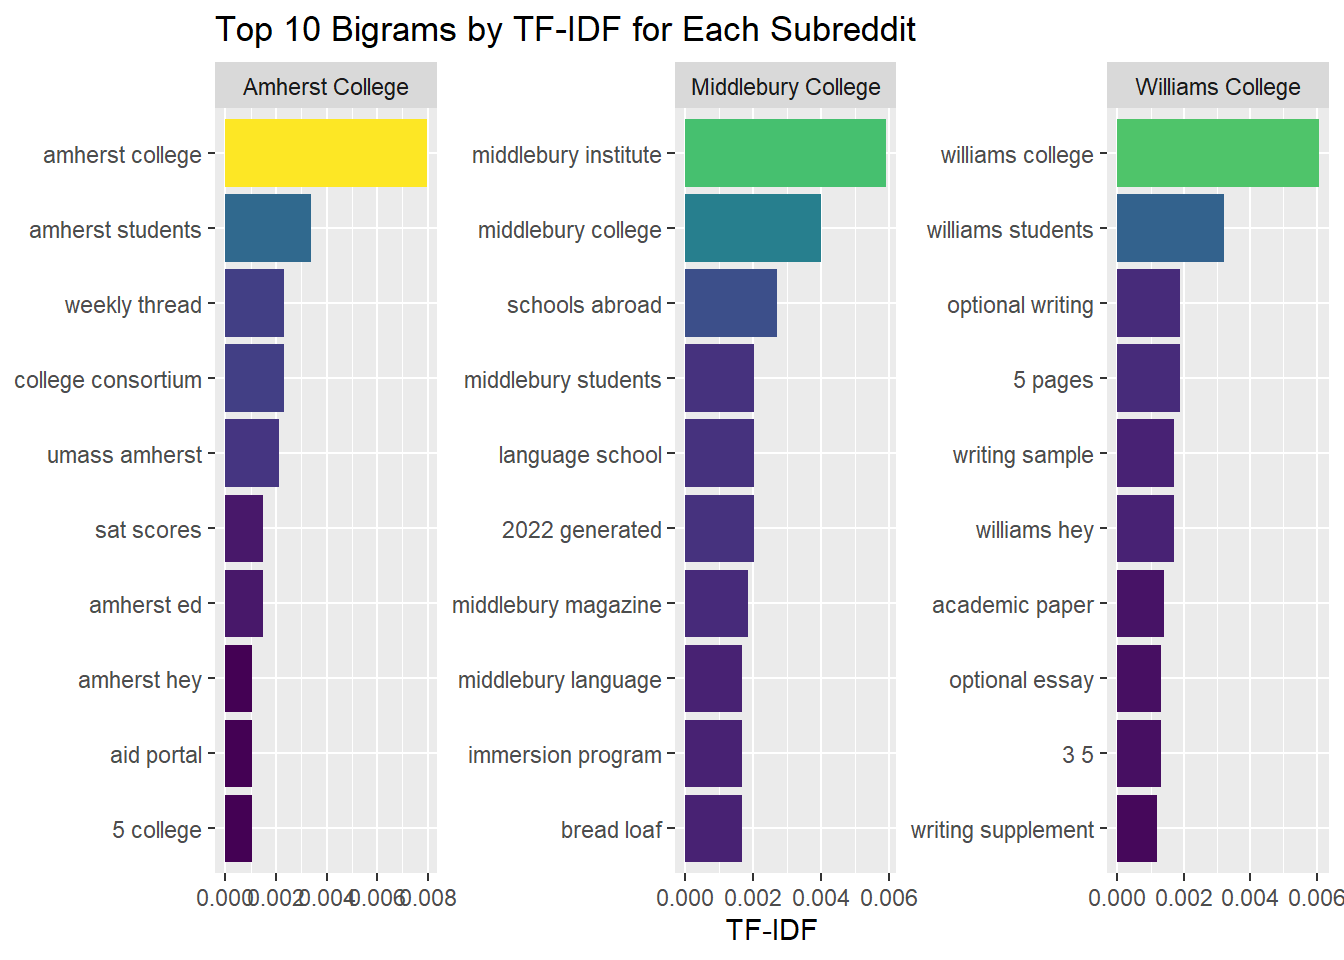
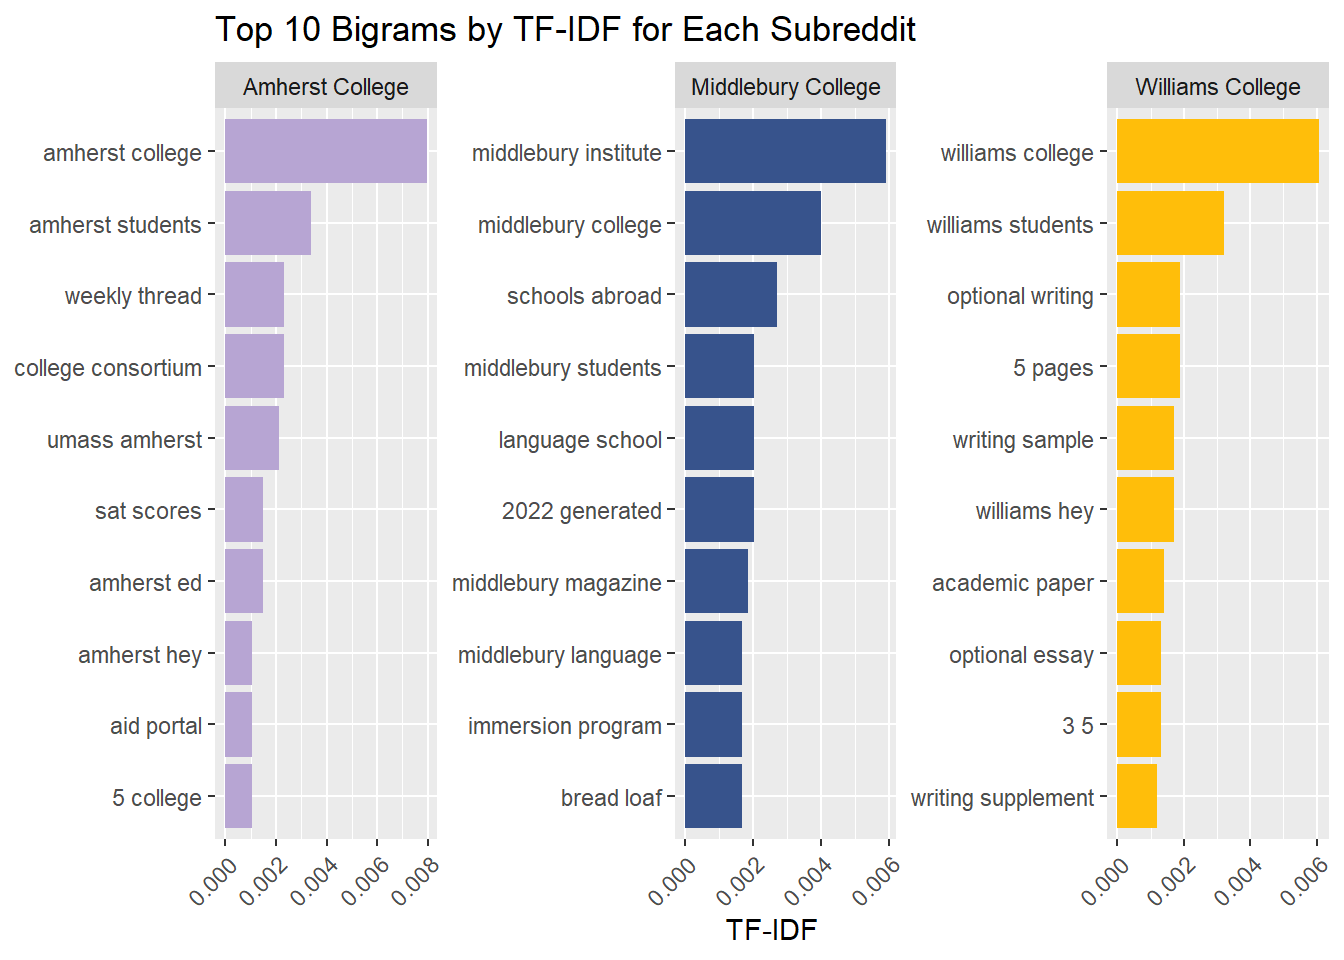
change colors and rotated axes on tf idf

diff --git a/docs/tf-idf.html b/docs/tf-idf.html
@@ -9,7 +9,7 @@
 <meta name="author" content="Fynn Hayton-Ruffner">
 <meta name="author" content="Shekinah Ninziza">
 <meta name="author" content="Kinglee Tham">
-<meta name="dcterms.date" content="2025-05-01">
+<meta name="dcterms.date" content="2025-05-04">
 
 <title>Term Frequency - Inverse Document Frequency Analysis – Bobcat</title>
 <style>
@@ -165,7 +165,7 @@ ul.task-list li input[type="checkbox"] {
     <div>
     <div class="quarto-title-meta-heading">Last updated</div>
     <div class="quarto-title-meta-contents">
-      <p class="date">May 1, 2025</p>
+      <p class="date">May 4, 2025</p>
     </div>
   </div>
   
@@ -182,13 +182,13 @@ ul.task-list li input[type="checkbox"] {
 <h1>Word Analysis</h1>
 <div class="cell">
 <div class="cell-output-display">
-<div id="fig-word_tfidf" class="quarto-float quarto-figure quarto-figure-center anchored" width="672">
+<div id="fig-word_tfidf" class="quarto-float quarto-figure quarto-figure-center anchored">
 <figure class="quarto-float quarto-float-fig figure">
 <div aria-describedby="fig-word_tfidf-caption-0ceaefa1-69ba-4598-a22c-09a6ac19f8ca">
-<img src="tf-idf_files/figure-html/fig-word_tfidf-1.png" id="fig-word_tfidf" class="img-fluid figure-img" width="672">
+<img src="tf-idf_files/figure-html/fig-word_tfidf-1.png" class="img-fluid figure-img" width="672">
 </div>
-<figcaption class="quarto-float-caption-bottom quarto-float-caption quarto-float-fig quarto-uncaptioned" id="fig-word_tfidf-caption-0ceaefa1-69ba-4598-a22c-09a6ac19f8ca">
-Figure&nbsp;1
+<figcaption class="quarto-float-caption-bottom quarto-float-caption quarto-float-fig" id="fig-word_tfidf-caption-0ceaefa1-69ba-4598-a22c-09a6ac19f8ca">
+Figure&nbsp;1: Pay careful attention to the scales!
 </figcaption>
 </figure>
 </div>
@@ -211,13 +211,13 @@ Figure&nbsp;1
 <h1>Bigram Analysis</h1>
 <div class="cell">
 <div class="cell-output-display">
-<div id="fig-bigram_tfidf" class="quarto-float quarto-figure quarto-figure-center anchored" width="672">
+<div id="fig-bigram_tfidf" class="quarto-float quarto-figure quarto-figure-center anchored">
 <figure class="quarto-float quarto-float-fig figure">
 <div aria-describedby="fig-bigram_tfidf-caption-0ceaefa1-69ba-4598-a22c-09a6ac19f8ca">
-<img src="tf-idf_files/figure-html/fig-bigram_tfidf-1.png" id="fig-bigram_tfidf" class="img-fluid figure-img" width="672">
+<img src="tf-idf_files/figure-html/fig-bigram_tfidf-1.png" class="img-fluid figure-img" width="672">
 </div>
-<figcaption class="quarto-float-caption-bottom quarto-float-caption quarto-float-fig quarto-uncaptioned" id="fig-bigram_tfidf-caption-0ceaefa1-69ba-4598-a22c-09a6ac19f8ca">
-Figure&nbsp;2
+<figcaption class="quarto-float-caption-bottom quarto-float-caption quarto-float-fig" id="fig-bigram_tfidf-caption-0ceaefa1-69ba-4598-a22c-09a6ac19f8ca">
+Figure&nbsp;2: Pay careful attention to the scales!
 </figcaption>
 </figure>
 </div>
